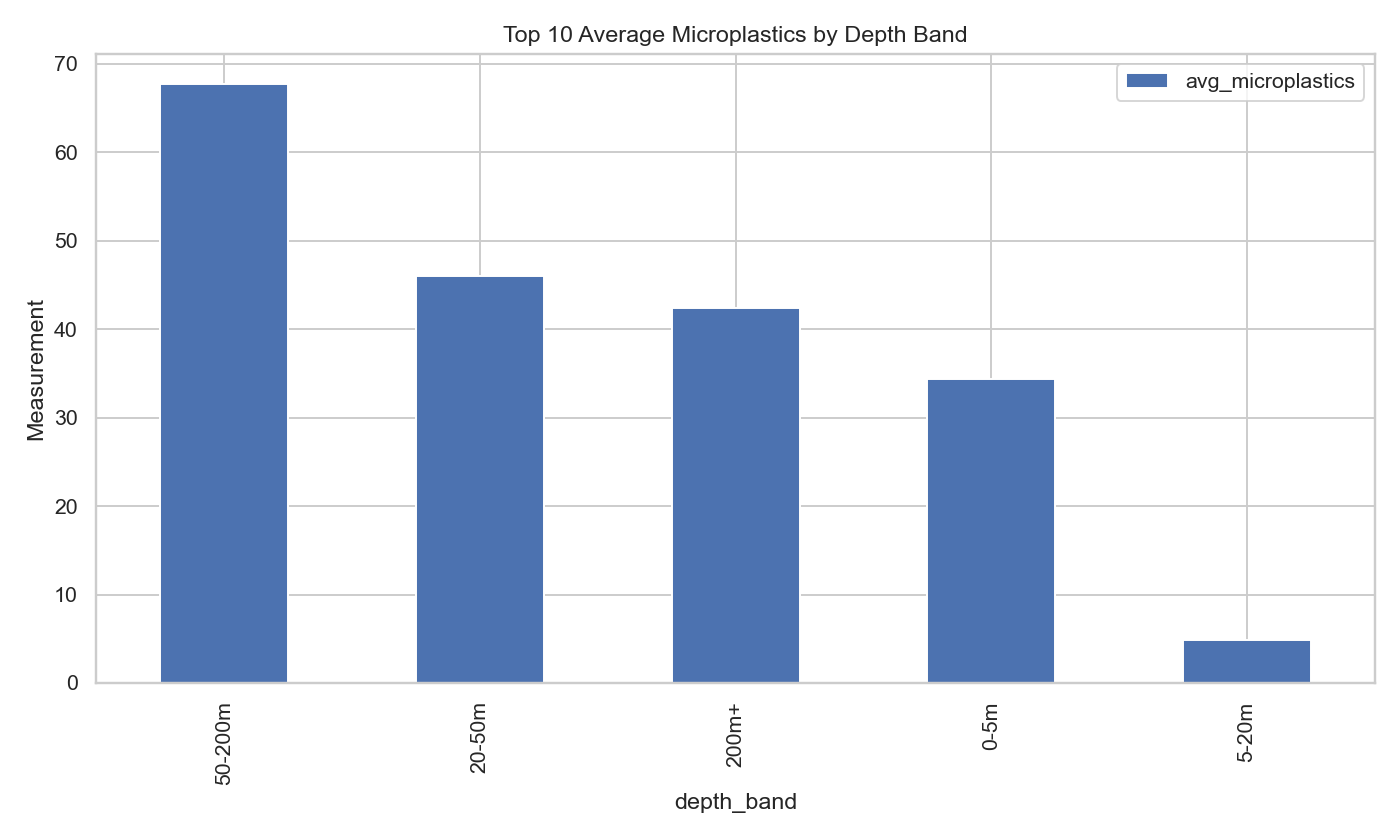
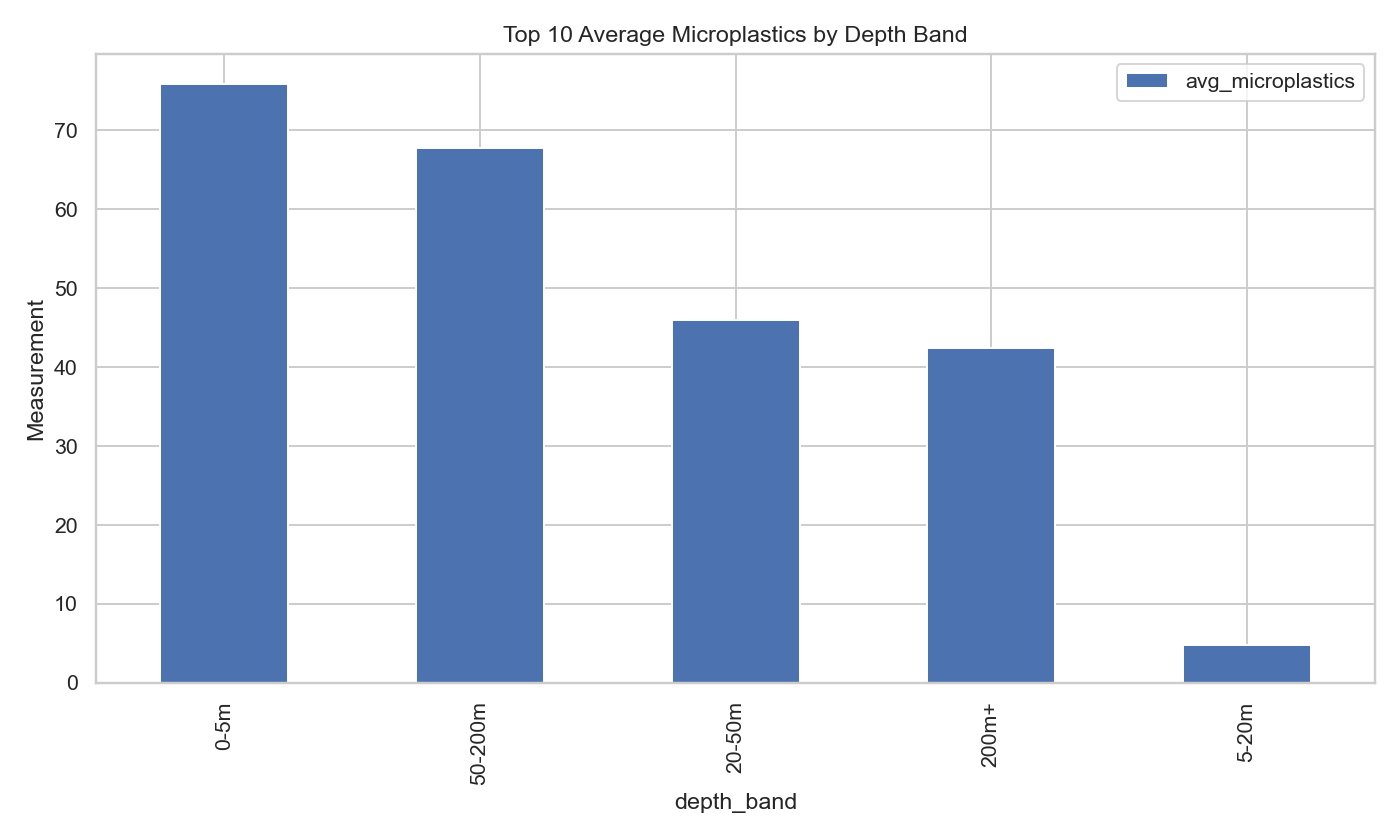
new graphs

diff --git a/reports/visualizations.py b/reports/visualizations.py
@@ -20,7 +20,12 @@ from DB.queries import (
     OCEAN_RANKING_TOTAL,
     ORGANIZATION_ACTIVITY,
     CRITICAL_ZONES_HIGHHIGH,
-    CRITICAL_ZONES_LOWBIODIV_HIGHCONT
+    CRITICAL_ZONES_LOWBIODIV_HIGHCONT,
+    SAMPLES_PER_YEAR,
+    METHODS_BY_YEAR_COUNTS,
+    METHODS_BY_WATERSAMPLEDEPTH,
+    MARINE_SETTING_RANKING,
+    MONTHLY_TREND
 )
 
 sns.set(style="whitegrid")
@@ -154,6 +159,111 @@ def plot_critical_lowbiodiv_highcont(df, out_path):
     plt.xticks(rotation=45)
     plt.title("Critical Zones: Low Biodiversity + High Pollution")
     plt.ylabel("number of locations")
+    plt.tight_layout()
+    plt.savefig(out_path, dpi=140)
+    plt.close()
+
+def plot_samples_per_year(df: pd.DataFrame, out_path: str):
+    if df.empty:
+        return
+    d = df.copy()
+    d["year"] = d["year"].astype(int)
+    d = d.sort_values("year")
+
+    plt.figure(figsize=(10,5))
+    # barras
+    plt.bar(d["year"], d["n_samples"], alpha=0.7)
+    # línea suave por encima (misma escala)
+    plt.plot(d["year"], d["n_samples"], marker="o", linewidth=2)
+    plt.title("Número de muestreos por año")
+    plt.xlabel("Año"); plt.ylabel("Muestreos (conteo)")
+    plt.tight_layout()
+    plt.savefig(out_path, dpi=140)
+    plt.close()
+
+def plot_methods_by_year_area(df: pd.DataFrame, out_path: str, top_methods=6):
+    """
+    Área apilada con los métodos más usados (Top-N); el resto va a 'Others'.
+    """
+    if df.empty:
+        return
+    d = df.copy()
+    d["year"] = d["year"].astype(int)
+
+    # Top-N métodos por volumen total
+    totals = d.groupby("sampling_method")["n_samples"].sum().sort_values(ascending=False)
+    keep = set(totals.head(top_methods).index)
+    d["method_grp"] = d["sampling_method"].where(d["sampling_method"].isin(keep), other="Others")
+
+    # Pivot year x method_grp
+    pvt = d.groupby(["year","method_grp"])["n_samples"].sum().reset_index()
+    pvt = pvt.pivot(index="year", columns="method_grp", values="n_samples").fillna(0).sort_index()
+
+    plt.figure(figsize=(12,6))
+    pvt.plot.area(ax=plt.gca())
+    plt.title("Métodos de muestreo por año (área apilada, Top métodos)")
+    plt.xlabel("Año"); plt.ylabel("Muestreos (conteo)")
+    plt.tight_layout()
+    plt.savefig(out_path, dpi=140)
+    plt.close()
+    
+
+def plot_depth_vs_method_heatmap(df, out_path, top_methods=8):
+    if df.empty:
+        return
+
+       # orden lógico fijo
+    order = ["0–5m","5–20m","20–50m","50–200m","200m+", "Unknown"]
+    df = df.copy()
+    df["depth_band"] = pd.Categorical(df["depth_band"], categories=order, ordered=True)
+    df["sampling_method"] = df["sampling_method"].str.strip().str.lower()
+
+    # top métodos
+    top = (df.groupby("sampling_method")["n_samples"]
+             .sum().sort_values(ascending=False).head(top_methods).index)
+    d = df[df["sampling_method"].isin(top)]
+
+    # matriz numérica
+    pivot = (d.pivot_table(index="depth_band", columns="sampling_method",
+                           values="n_samples", aggfunc="sum", fill_value=0)
+               .sort_index())
+
+
+    # Heatmap
+    plt.figure(figsize=(12, 6))
+    sns.heatmap(pivot, annot=True, fmt=".0f", cmap="Blues")
+    plt.title("Métodos de muestreo usados por banda de profundidad")
+    plt.xlabel("Método de muestreo")
+    plt.ylabel("Banda de profundidad")
+    plt.tight_layout()
+    plt.savefig(out_path, dpi=140)
+    plt.close()
+    
+def plot_marine_setting_ranking(df, out_path):
+    """Ranking de avg_microplastics por marine_setting."""
+    if df.empty: return
+    df = df.sort_values("avg_microplastics", ascending=True)
+    plt.figure(figsize=(10, 7))
+    plt.barh(df["marine_setting"], df["avg_microplastics"], color="teal")
+    plt.xlabel("Average Microplastics Measurement")
+    plt.ylabel("Marine Setting")
+    plt.title("Top Marine Settings by Average Microplastic Contamination")
+    plt.tight_layout()
+    plt.savefig(out_path, dpi=140)
+    plt.close()
+
+def plot_monthly_trend(df, out_path):
+    """Muestra la tendencia estacional de contaminación promedio."""
+    if df.empty: return
+    month_names = ["Jan", "Feb", "Mar", "Apr", "May", "Jun", "Jul", "Aug", "Sep", "Oct", "Nov", "Dec"]
+    df = df.set_index("month").reindex(range(1,13)).reset_index()
+    
+    plt.figure(figsize=(10, 5))
+    plt.bar(df["month"], df["avg_microplastics"], color="skyblue")
+    plt.xticks(ticks=df["month"], labels=[month_names[m-1] for m in df["month"]], rotation=45)
+    plt.xlabel("Month")
+    plt.ylabel("Average Microplastics Measurement")
+    plt.title("Seasonal Trend of Average Microplastic Contamination")
     plt.tight_layout()
     plt.savefig(out_path, dpi=140)
     plt.close()
@@ -340,8 +450,27 @@ def generate_all_figures(engine, start_date=None, end_date=None, save_dir="repor
     # 12) Zonas críticas Low-High
     df_lowhigh = _run_df(engine, CRITICAL_ZONES_LOWBIODIV_HIGHCONT, params)
     plot_critical_lowbiodiv_highcont(df_lowhigh, os.path.join(save_dir, "12_critical_lowhigh.png"))
+    
+     # 13) Muestreos por año
+    df_year_samples = _run_df(engine, SAMPLES_PER_YEAR, params)
+    plot_samples_per_year(df_year_samples, os.path.join(save_dir, "13_samples_per_year.png"))
 
+    # 14) Métodos por año
+    df_methods_year = _run_df(engine, METHODS_BY_YEAR_COUNTS, params)
+    plot_methods_by_year_area(df_methods_year, os.path.join(save_dir, "14_methods_by_year_area.png"))
+    
+    #15 ) Métodos por banda de profundidad (heatmap)
+    df_methods_depth = _run_df(engine, METHODS_BY_WATERSAMPLEDEPTH, params) 
+    plot_depth_vs_method_heatmap(df_methods_depth, os.path.join(save_dir, "15_methods_by_depth_heatmap.png"))   
 
+    #16) Ranking por marine setting
+    df_marine_setting = _run_df(engine, MARINE_SETTING_RANKING, params)
+    plot_marine_setting_ranking(df_marine_setting, os.path.join(save_dir, "16_marine_setting_ranking.png"))
+    
+    # 17) Tendencia mensual (barras)
+    df_monthly = _run_df(engine, MONTHLY_TREND, params)
+    plot_monthly_trend(df_monthly, os.path.join(save_dir, "17_monthly_trend.png"))
+    
     if also_show:
         plt.show()
 

diff --git a/DB/queries.py b/DB/queries.py
@@ -168,11 +168,8 @@ WHERE l.latitude IS NOT NULL
 """)
 
 # -------------------------------------------------
-#prueba
-# 8) 
-# ===== Nuevas consultas =====
 
-# Tendencia por año (promedio, total y #muestras)
+# 8) Tendencia por año (promedio, total y #muestras)
 YEAR_TREND = text("""
 SELECT
   d.year,
@@ -187,7 +184,7 @@ GROUP BY d.year
 ORDER BY d.year;
 """)
 
-# Ranking por océano (total, promedio y #muestras)
+#9 Ranking por océano (total, promedio y #muestras)
 OCEAN_RANKING_TOTAL = text("""
 SELECT
   o.ocean,
@@ -288,4 +285,91 @@ JOIN dim_region r ON r.region_id = ranked.region_id
 WHERE q_micro = 4 AND q_species = 1
 GROUP BY r.region
 ORDER BY n_low_high DESC;
+""")
+
+#14 Muestras por año
+SAMPLES_PER_YEAR = text("""
+SELECT
+  d.year,
+  COUNT(*) AS n_samples
+FROM fact_microplastics m
+JOIN dim_date d ON d.date_id = m.date_id
+WHERE (:start_date IS NULL OR d.full_date >= :start_date)
+  AND (:end_date   IS NULL OR d.full_date <  :end_date)
+GROUP BY d.year
+ORDER BY d.year;
+""")
+#Metodos de recoleccion por año
+METHODS_BY_YEAR_COUNTS = text("""
+SELECT
+  d.year,
+  sm.sampling_method,
+  COUNT(*) AS n_samples
+FROM fact_microplastics m
+JOIN dim_date d             ON d.date_id    = m.date_id
+LEFT JOIN dim_sampling_method sm ON sm.method_id = m.method_id
+WHERE (:start_date IS NULL OR d.full_date >= :start_date)
+  AND (:end_date   IS NULL OR d.full_date <  :end_date)
+GROUP BY d.year, sm.sampling_method
+ORDER BY d.year, n_samples DESC;
+""")
+
+#15 Métodos por banda de profundidad (heatmap)
+METHODS_BY_WATERSAMPLEDEPTH = text("""
+SELECT
+  CASE
+    WHEN depth_val IS NULL THEN 'Unknown'
+    WHEN depth_val < 5   THEN '0–5m'
+    WHEN depth_val < 20  THEN '5–20m'
+    WHEN depth_val < 50  THEN '20–50m'
+    WHEN depth_val < 200 THEN '50–200m'
+    ELSE '200m+'
+  END AS depth_band,
+  TRIM(LOWER(sm.sampling_method)) AS sampling_method,
+  COUNT(*) AS n_samples
+FROM (
+  SELECT
+    CAST(REPLACE(TRIM(
+      NULLIF(TRIM(water_sample_depth), '')
+    ), ',', '.') AS DOUBLE) AS depth_val,
+    method_id
+  FROM fact_microplastics
+) m
+LEFT JOIN dim_sampling_method sm 
+  ON sm.method_id = m.method_id
+GROUP BY depth_band, sampling_method
+ORDER BY depth_band, n_samples DESC;
+
+""")
+
+# 16) Ranking por Entorno Marino
+MARINE_SETTING_RANKING = text("""
+SELECT
+  ms.marine_setting,
+  AVG(m.measurement) AS avg_microplastics,
+  SUM(m.measurement) AS total_microplastics,
+  COUNT(*)           AS n_samples
+FROM fact_microplastics m
+LEFT JOIN dim_marine_setting ms ON ms.marine_setting_id = m.marine_setting_id
+LEFT JOIN dim_date d           ON d.date_id            = m.date_id
+WHERE (:start_date IS NULL OR d.full_date >= :start_date)
+  AND (:end_date   IS NULL OR d.full_date <  :end_date)
+  AND ms.marine_setting IS NOT NULL
+GROUP BY ms.marine_setting
+ORDER BY avg_microplastics DESC
+LIMIT 10;
+""")
+
+# 17) Tendencia Mensual/Estacional
+MONTHLY_TREND = text("""
+SELECT
+  d.month,
+  AVG(m.measurement) AS avg_microplastics,
+  COUNT(*)           AS n_samples
+FROM fact_microplastics m
+JOIN dim_date d ON d.date_id = m.date_id
+WHERE (:start_date IS NULL OR d.full_date >= :start_date)
+  AND (:end_date   IS NULL OR d.full_date <  :end_date)
+GROUP BY d.month
+ORDER BY d.month;
 """)

diff --git a/ETL/transform.py b/ETL/transform.py
@@ -82,6 +82,26 @@ def transform(df_microplastics, df_species):
         " Stainless Steel Spatula": "Stainless steel spatula"
     }
     df_microplastics_clean["sampling_method"] = df_microplastics_clean["sampling_method"].replace(sampling_map)
+    # >>>>> NUEVA LÓGICA PARA water_sample_depth <<<<<
+    mask_na = df_microplastics_clean["water_sample_depth"].isna()
+    # Si sampling_method = Hand picking y water_sample_depth es nulo, asignar 2.5 (representa 0–5m)
+    df_microplastics_clean.loc[
+     (df_microplastics_clean["sampling_method"] == "Hand Picking") &
+     (df_microplastics_clean["water_sample_depth"].isna()),
+     "water_sample_depth"
+    ] = 2.5
+    
+    # Manta net → muestrea la capa superficial (~15–25 cm), usar 0.2 m
+    df_microplastics_clean.loc[
+      mask_na & (df_microplastics_clean["sampling_method"] == "Manta net"),
+      "water_sample_depth"
+    ] = 0.2
+
+    # PVC cylinder → usualmente para sedimento/entorno muy somero (superficial–10 cm), usar 0.1 m
+    df_microplastics_clean.loc[
+     mask_na & (df_microplastics_clean["sampling_method"] == "Pvc Cylinder"),
+     "water_sample_depth"
+    ] = 0.1
 
     # Unit
     unit_map = {
@@ -167,6 +187,8 @@ def transform(df_microplastics, df_species):
     # Organization
     dim_org = df[["organization"]].dropna().drop_duplicates().reset_index(drop=True)
     dim_org["organization_id"] = dim_org.index + 1
+    
+    
 
     # ===== FACTS =====
     fact_micro = (
